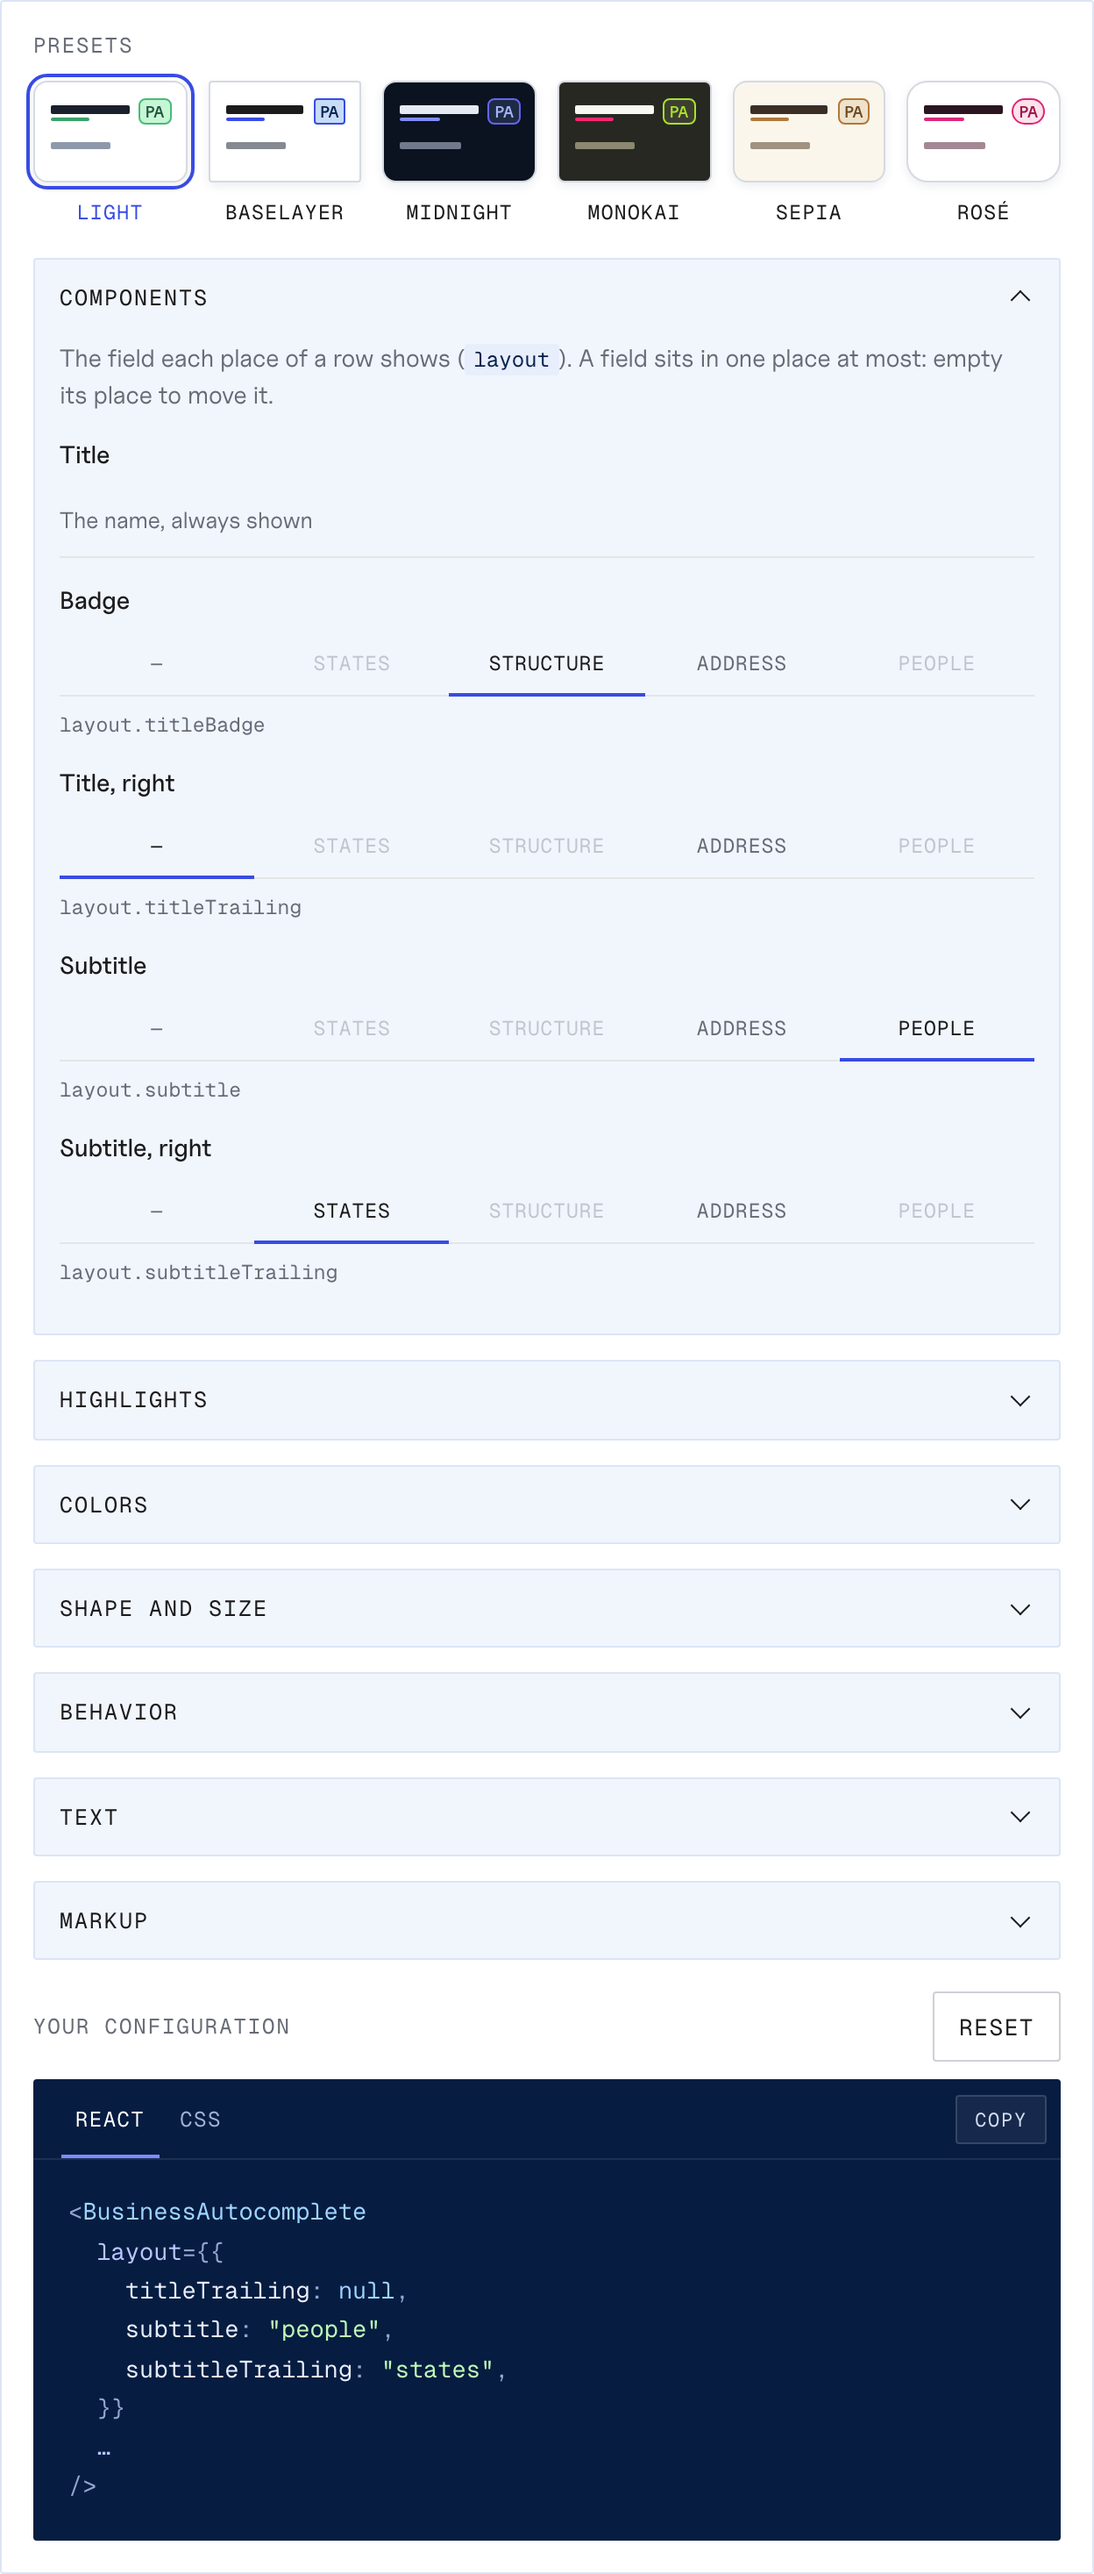
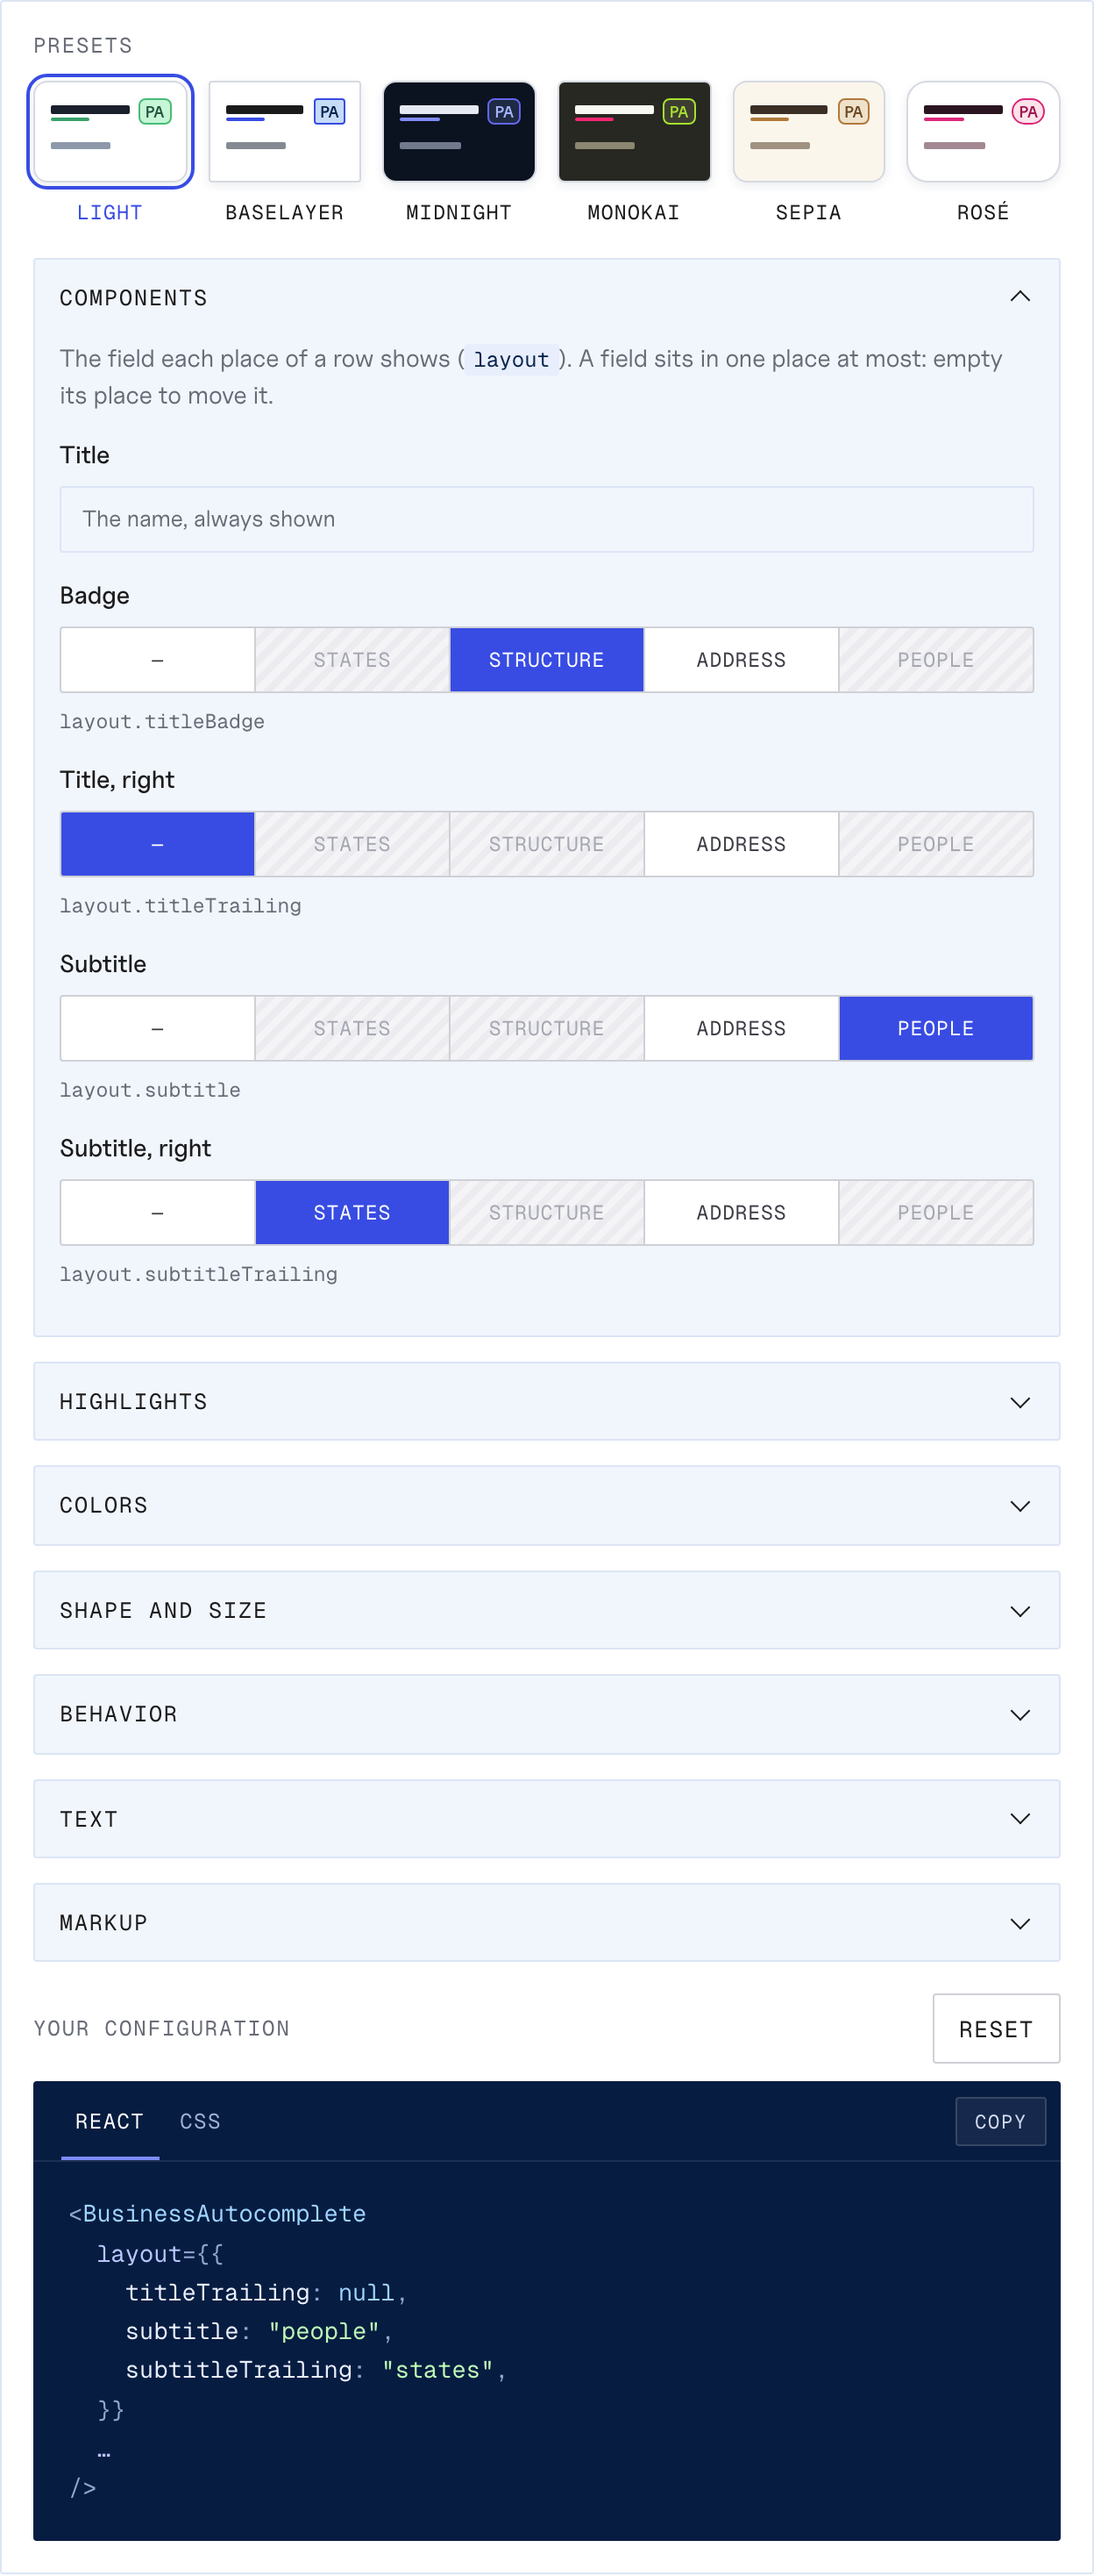
Draw the demo's place choices as cells, the picked one filled
Told apart by an underline alone, the picked field, the free ones and the
ones placed elsewhere were hard to read at a glance. Each place's choices
are now a row of cells framed as the demo's inputs are: the picked cell
filled in the brand blue, a free one white and lit on hover, and one placed
elsewhere hatched and muted, as a taken cell. The title's fixed place is a
filled field of the same height. The Styling panel's screenshot is retaken.

diff --git a/site/demo/demo.css b/site/demo/demo.css
@@ -537,26 +537,31 @@
   font-size: 12px;
 }
 
-/* ---- Segmented: a row of choices, drawn as the tabs are ----------------- */
+/* ---- Segmented: a row of cells, one of which is picked ------------------ */
 
-/* Equal columns, so the controls stacked in a fold read as a grid in which
-   each field is lit once. */
+/* Framed as a text input is, cells of equal width, so the controls stacked
+   in a fold read as a grid in which each field is lit once. */
 .demo .segmented {
   display: grid;
   grid-auto-columns: minmax(0, 1fr);
   grid-auto-flow: column;
-  border-bottom: 1px solid var(--line);
+  gap: 1px;
+  overflow: hidden;
+  background: #cfd0d6;
+  border: 1px solid #cfd0d6;
+  border-radius: 2px;
 }
 
 .demo .segmented button {
+  position: relative;
   min-width: 0;
-  margin-bottom: -1px;
-  padding: 10px 2px;
+  height: 36px;
+  margin: 0;
+  padding: 0 4px;
   overflow: hidden;
-  background: none;
+  background: var(--paper);
   border: 0;
-  border-bottom: 2px solid transparent;
-  color: var(--muted);
+  color: var(--ink-soft);
   font-family: var(--mono);
   font-size: 11.5px;
   letter-spacing: 0.04em;
@@ -564,37 +569,49 @@
   text-transform: uppercase;
   white-space: nowrap;
   cursor: pointer;
+  transition:
+    background-color 120ms ease,
+    color 120ms ease;
 }
 
 .demo .segmented button:hover {
+  background: var(--faded);
   color: var(--ink);
 }
 
 .demo .segmented button[aria-checked="true"] {
-  border-bottom-color: var(--blue);
-  color: var(--ink);
+  background: var(--blue);
+  color: #ffffff;
 }
 
-/* Placed elsewhere: shown, so the grid reads whole, but not a choice here. */
+/* Placed elsewhere: shown, so the grid reads whole, but struck through with
+   a hatch, as a cell that is taken. */
 .demo .segmented button[aria-disabled="true"] {
-  opacity: 0.35;
+  background: repeating-linear-gradient(135deg, #f4f4f6 0 4px, #ececf0 4px 8px);
+  color: #a4a7b0;
   cursor: not-allowed;
 }
 
-.demo .segmented button[aria-disabled="true"]:hover {
-  color: var(--muted);
-}
-
 .demo .segmented button:focus-visible {
+  z-index: 1;
   outline: 2px solid var(--blue);
   outline-offset: -2px;
 }
 
+.demo .segmented button[aria-checked="true"]:focus-visible {
+  outline-color: var(--navy);
+}
+
 /* The title's place, which is fixed: a line where the others have a control. */
 .place-fixed {
-  display: block;
-  padding: 10px 0;
-  border-bottom: 1px solid var(--line);
+  display: flex;
+  align-items: center;
+  box-sizing: border-box;
+  height: 38px;
+  padding: 0 12px;
+  background: var(--faded);
+  border: 1px solid var(--line-soft);
+  border-radius: 2px;
   color: var(--muted);
   font-size: 13px;
 }
